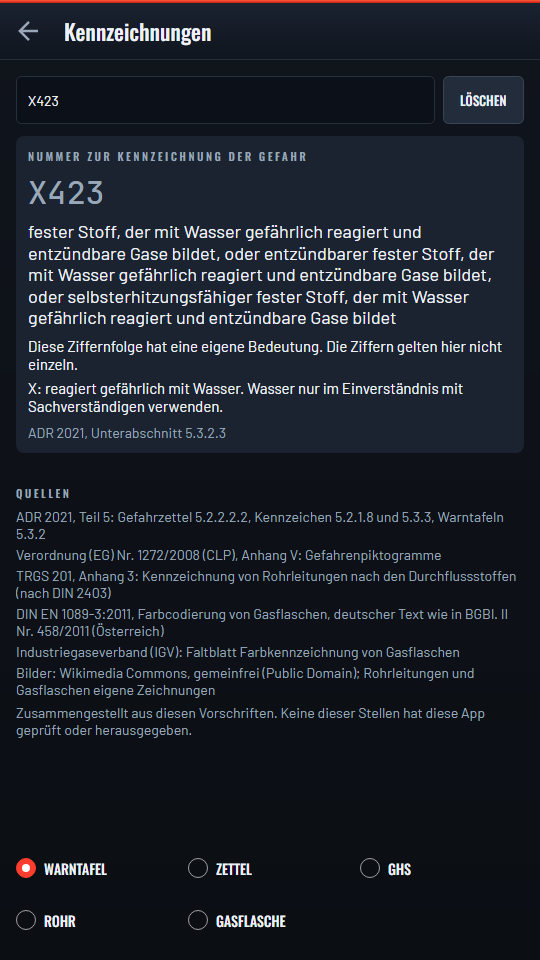
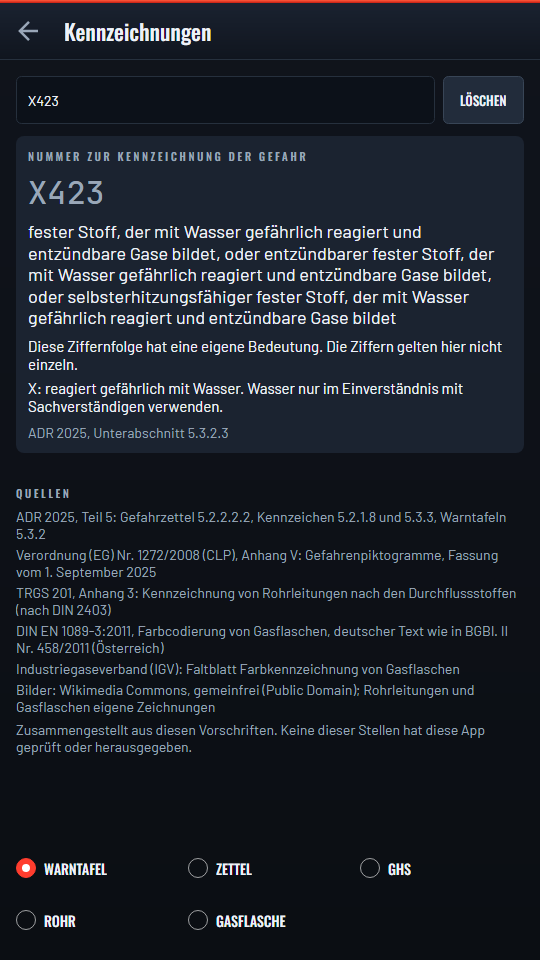
fix(kennzeichnungen): follow ADR 2025 and the current CLP Anhang V (#79)
The helper cited ADR 2021 and CLP in its 2008 version. Checked against
the later texts:

- ADR 2023 (Teil 5, German text): formatting changes only in every
  cited paragraph.
- ADR 2025 (30. ADR-Änderungsverordnung, BGBl. 2025 II Nr. 57): strikes
  "78 radioaktiver Stoff, ätzend" from 5.3.2.3.2. 78 now reads as a
  number the ADR does not list.
- ADR 2027 (draft of 22.07.2026): no change to the cited paragraphs.
- CLP Anhang V, consolidated 01.09.2025: GHS02 also marks desensibilisierte
  explosive Stoffe (2.17), and GHS07 also marks damage to the ozone
  layer (Teil 4); the rest are category details the short texts omit.

The screen and the source list now name ADR 2025 and the CLP version.

Refs #21

Changed region(s): [[0.0296, 0.5312, 0.9481, 0.7812], [0.1481, 0.4375, 0.4148, 0.4688]]

diff --git a/src/Helpers/Kennzeichnungen/FwAssist.Helpers.Kennzeichnungen/Kennzeichenkatalog.cs b/src/Helpers/Kennzeichnungen/FwAssist.Helpers.Kennzeichnungen/Kennzeichenkatalog.cs
@@ -2,12 +2,13 @@ namespace FwAssist.Helpers.Kennzeichnungen;
 
 /// <summary>
 /// Every marking the helper shows, by group. Names and descriptions of the Gefahrzettel are ADR
-/// 2021, 5.2.2.2.2 (Gefahrzettelmuster, the class headings and the column "Symbol und Farbe des
-/// Symbols"); the GHS entries are CLP, Verordnung (EG) Nr. 1272/2008, Anhang V, in the version of
-/// ABl. L 353 of 31.12.2008, shortened to the hazard classes without their categories where the
-/// screen has no room. Rohrleitungen and Gasflaschen are documented on their lists. The wording is
-/// our own and states the sources' facts in new sentences. Every entry names its paragraph in
-/// <see cref="Kennzeichen.Source"/>.
+/// 5.2.2.2.2 (Gefahrzettelmuster, the class headings and the column "Symbol und Farbe des
+/// Symbols"), German text of ADR 2021, unchanged in substance by the 2023 and 2025 amendments and
+/// by the draft for 2027. The GHS entries are CLP, Verordnung (EG) Nr. 1272/2008, Anhang V, in the
+/// consolidated version of 1 September 2025, shortened to the hazard classes without their
+/// categories where the screen has no room. Rohrleitungen and Gasflaschen are documented on their
+/// lists. The wording is our own and states the sources' facts in new sentences. Every entry names
+/// its paragraph in <see cref="Kennzeichen.Source"/>.
 /// </summary>
 public static class Kennzeichenkatalog
 {
@@ -17,8 +18,8 @@ public static class Kennzeichenkatalog
     /// <summary>Named on screen, and no more than named.</summary>
     public static IReadOnlyList<string> Sources { get; } =
     [
-        "ADR 2021, Teil 5: Gefahrzettel 5.2.2.2.2, Kennzeichen 5.2.1.8 und 5.3.3, Warntafeln 5.3.2",
-        "Verordnung (EG) Nr. 1272/2008 (CLP), Anhang V: Gefahrenpiktogramme",
+        "ADR 2025, Teil 5: Gefahrzettel 5.2.2.2.2, Kennzeichen 5.2.1.8 und 5.3.3, Warntafeln 5.3.2",
+        "Verordnung (EG) Nr. 1272/2008 (CLP), Anhang V: Gefahrenpiktogramme, Fassung vom 1. September 2025",
         "TRGS 201, Anhang 3: Kennzeichnung von Rohrleitungen nach den Durchflussstoffen (nach DIN 2403)",
         "DIN EN 1089-3:2011, Farbcodierung von Gasflaschen, deutscher Text wie in BGBl. II Nr. 458/2011 (Österreich)",
         "Industriegaseverband (IGV): Faltblatt Farbkennzeichnung von Gasflaschen",
@@ -90,12 +91,12 @@ public static class Kennzeichenkatalog
     public static IReadOnlyList<Kennzeichen> Ghs { get; } =
     [
         Piktogramm("ghs01", "GHS01", "Explodierende Bombe", "Instabile explosive Stoffe, explosive Stoffe der Unterklassen 1.1 bis 1.4, selbstzersetzliche Stoffe und organische Peroxide der Typen A und B", "1.1"),
-        Piktogramm("ghs02", "GHS02", "Flamme", "Entzündbare Gase, Aerosole, Flüssigkeiten und Feststoffe; pyrophore und selbsterhitzungsfähige Stoffe; Stoffe, die mit Wasser entzündbare Gase abgeben; selbstzersetzliche Stoffe und organische Peroxide der Typen B bis F", "1.2"),
+        Piktogramm("ghs02", "GHS02", "Flamme", "Entzündbare Gase, Aerosole, Flüssigkeiten und Feststoffe; pyrophore und selbsterhitzungsfähige Stoffe; Stoffe, die mit Wasser entzündbare Gase abgeben; selbstzersetzliche Stoffe und organische Peroxide der Typen B bis F; desensibilisierte explosive Stoffe", "1.2"),
         Piktogramm("ghs03", "GHS03", "Flamme über einem Kreis", "Oxidierende Gase, Flüssigkeiten und Feststoffe", "1.3"),
         Piktogramm("ghs04", "GHS04", "Gasflasche", "Gase unter Druck: verdichtet, verflüssigt, tiefgekühlt verflüssigt oder gelöst", "1.4"),
         Piktogramm("ghs05", "GHS05", "Ätzwirkung", "Auf Metalle korrosiv wirkend, hautätzend, schwere Augenschädigung", "1.5, 2.2"),
         Piktogramm("ghs06", "GHS06", "Totenkopf mit gekreuzten Knochen", "Akute Toxizität (oral, dermal, inhalativ), Kategorien 1 bis 3", "2.1"),
-        Piktogramm("ghs07", "GHS07", "Ausrufezeichen", "Akute Toxizität Kategorie 4, Reizung von Haut und Augen, Sensibilisierung der Haut, Atemwegsreizung, narkotisierende Wirkung", "2.3"),
+        Piktogramm("ghs07", "GHS07", "Ausrufezeichen", "Akute Toxizität Kategorie 4, Reizung von Haut und Augen, Sensibilisierung der Haut, Atemwegsreizung, narkotisierende Wirkung; schädigt die Ozonschicht", "2.3, 4.1"),
         Piktogramm("ghs08", "GHS08", "Gesundheitsgefahr", "Sensibilisierung der Atemwege, Keimzellmutagenität, Karzinogenität, Reproduktionstoxizität, Zielorgan-Toxizität, Aspirationsgefahr", "2.4"),
         Piktogramm("ghs09", "GHS09", "Umwelt", "Gewässergefährdend: akut Kategorie 1, chronisch Kategorien 1 und 2", "3.1"),
     ];

diff --git a/src/Helpers/Kennzeichnungen/FwAssist.Helpers.Kennzeichnungen/Gefahrnummern.cs b/src/Helpers/Kennzeichnungen/FwAssist.Helpers.Kennzeichnungen/Gefahrnummern.cs
@@ -5,14 +5,17 @@ namespace FwAssist.Helpers.Kennzeichnungen;
 
 /// <summary>
 /// The upper number on an orange Warntafel, the Nummer zur Kennzeichnung der Gefahr. Source: ADR
-/// 2021, Unterabschnitt 5.3.2.3, German text. The digit meanings are 5.3.2.3.1 and the listed
+/// 2025, Unterabschnitt 5.3.2.3: the German text of ADR 2021, checked against the 2023 edition
+/// (formatting changes only) and the 2025 amendments (30. ADR-Änderungsverordnung, BGBl. 2025 II
+/// Nr. 57, which strikes "78 radioaktiver Stoff, ätzend"). The draft for ADR 2027 leaves this
+/// subsection alone. The digit meanings are 5.3.2.3.1 and the listed
 /// meanings are the table of 5.3.2.3.2, quoted with its footnote 3) written out once as
 /// <see cref="WaterNote"/> instead of after every X entry. The ADR's German text is shared with
 /// Switzerland and spells "einschliesslich"; the screen spells it the German way.
 /// </summary>
 public static class Gefahrnummern
 {
-    public const string Source = "ADR 2021, Unterabschnitt 5.3.2.3";
+    public const string Source = "ADR 2025, Unterabschnitt 5.3.2.3";
 
     /// <summary>What an X in front means, ADR 5.3.2.3.1 and footnote 3) of 5.3.2.3.2.</summary>
     public const string WaterNote =
@@ -120,7 +123,6 @@ public static class Gefahrnummern
         ("69", "giftiger oder schwach giftiger Stoff, der spontan zu einer heftigen Reaktion führen kann"),
         ("70", "radioaktiver Stoff"),
         ("768", "radioaktiver Stoff, giftig, ätzend"),
-        ("78", "radioaktiver Stoff, ätzend"),
         ("80", "ätzender oder schwach ätzender Stoff"),
         ("X80", "ätzender oder schwach ätzender Stoff, der mit Wasser gefährlich reagiert"),
         ("823", "ätzender flüssiger Stoff, der mit Wasser reagiert und entzündbare Gase bildet"),

diff --git a/tests/FwAssist.Helpers.Kennzeichnungen.Tests/GefahrnummernTests.cs b/tests/FwAssist.Helpers.Kennzeichnungen.Tests/GefahrnummernTests.cs
@@ -126,6 +126,15 @@ public class GefahrnummernTests
     }
 
     [Fact]
+    public void Seventy_eight_is_no_longer_listed_since_adr_2025()
+    {
+        Assert.True(Gefahrnummern.TryRead("78", out var number));
+
+        Assert.Null(number.Meaning);
+        Assert.Equal(['7', '8'], number.Digits.Select(d => d.Digit));
+    }
+
+    [Fact]
     public void Every_listed_number_reads_back_as_itself_with_its_meaning()
     {
         Assert.All(Gefahrnummern.ListedNumbers, listed =>
@@ -139,7 +148,7 @@ public class GefahrnummernTests
     [Fact]
     public void The_list_holds_every_number_of_adr_5_3_2_3_2_once()
     {
-        Assert.Equal(98, Gefahrnummern.ListedNumbers.Count);
+        Assert.Equal(97, Gefahrnummern.ListedNumbers.Count);
         Assert.Equal(Gefahrnummern.ListedNumbers.Count, Gefahrnummern.ListedNumbers.Distinct(StringComparer.Ordinal).Count());
     }
 

diff --git a/tests/FwAssist.Helpers.Kennzeichnungen.Tests/KennzeichenkatalogTests.cs b/tests/FwAssist.Helpers.Kennzeichnungen.Tests/KennzeichenkatalogTests.cs
@@ -92,6 +92,16 @@ public class KennzeichenkatalogTests
         Assert.All(Kennzeichenkatalog.Gasflaschen, e => Assert.StartsWith("EN 1089-3:2011, ", e.Source, StringComparison.Ordinal));
     }
 
+    [Theory]
+    [InlineData("ghs02", "desensibilisierte explosive Stoffe")]
+    [InlineData("ghs07", "schädigt die Ozonschicht")]
+    public void A_ghs_piktogramm_names_the_hazards_clp_added_after_2008(string key, string hazard)
+    {
+        var entry = Kennzeichenkatalog.Ghs.Single(e => e.PictureKey == key);
+
+        Assert.Contains(hazard, entry.Meaning, StringComparison.Ordinal);
+    }
+
     [Fact]
     public void An_unknown_group_falls_back_to_the_warntafeln()
     {

diff --git a/changelog.d/+kennzeichnungen-adr-2025-clp.fixed.md b/changelog.d/+kennzeichnungen-adr-2025-clp.fixed.md
@@ -1,0 +1,1 @@
+The Kennzeichnungen helper now follows ADR 2025, which no longer lists Gefahrnummer 78, and the current CLP Anhang V, which adds desensibilisierte explosive Stoffe to GHS02 and damage to the ozone layer to GHS07 (#21).
